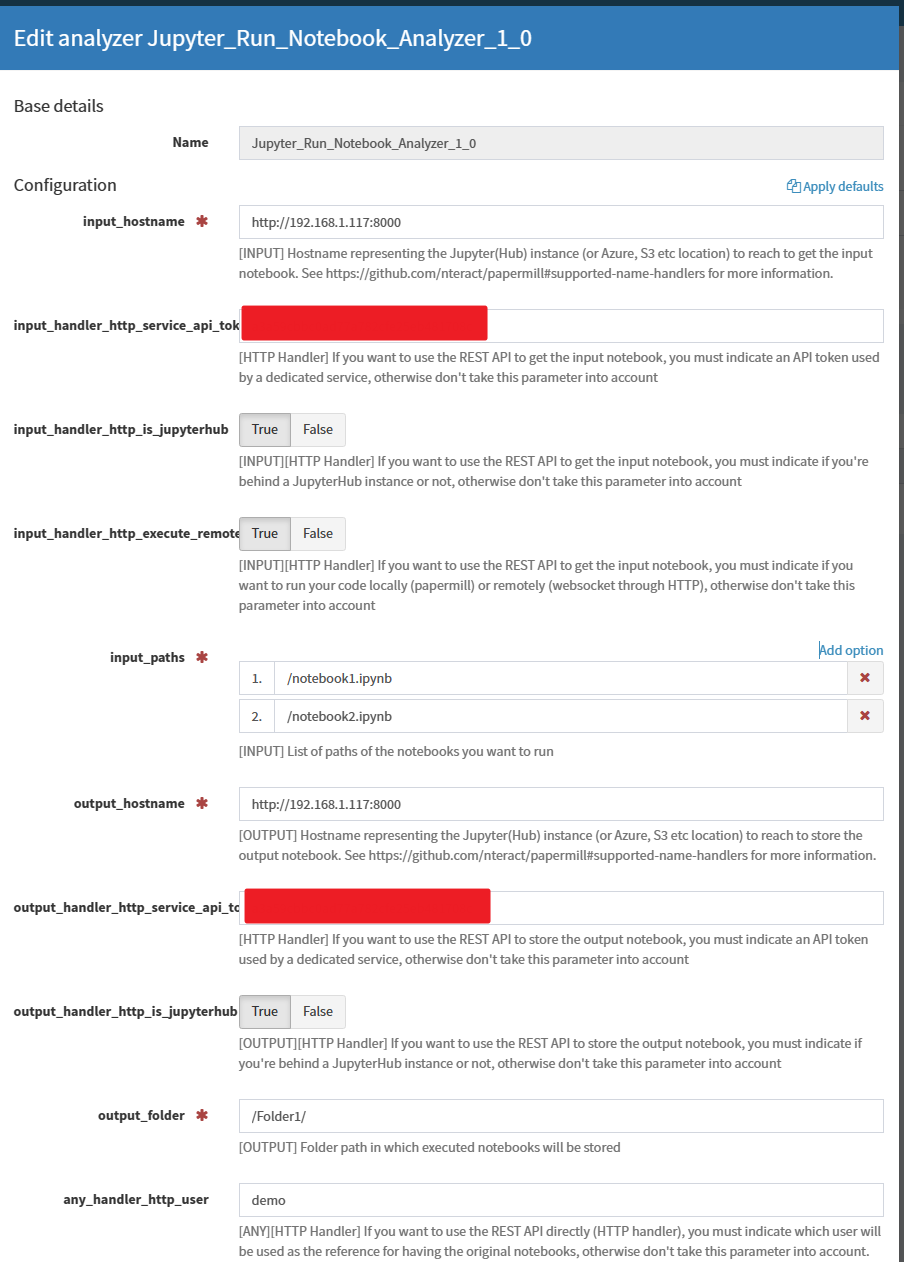
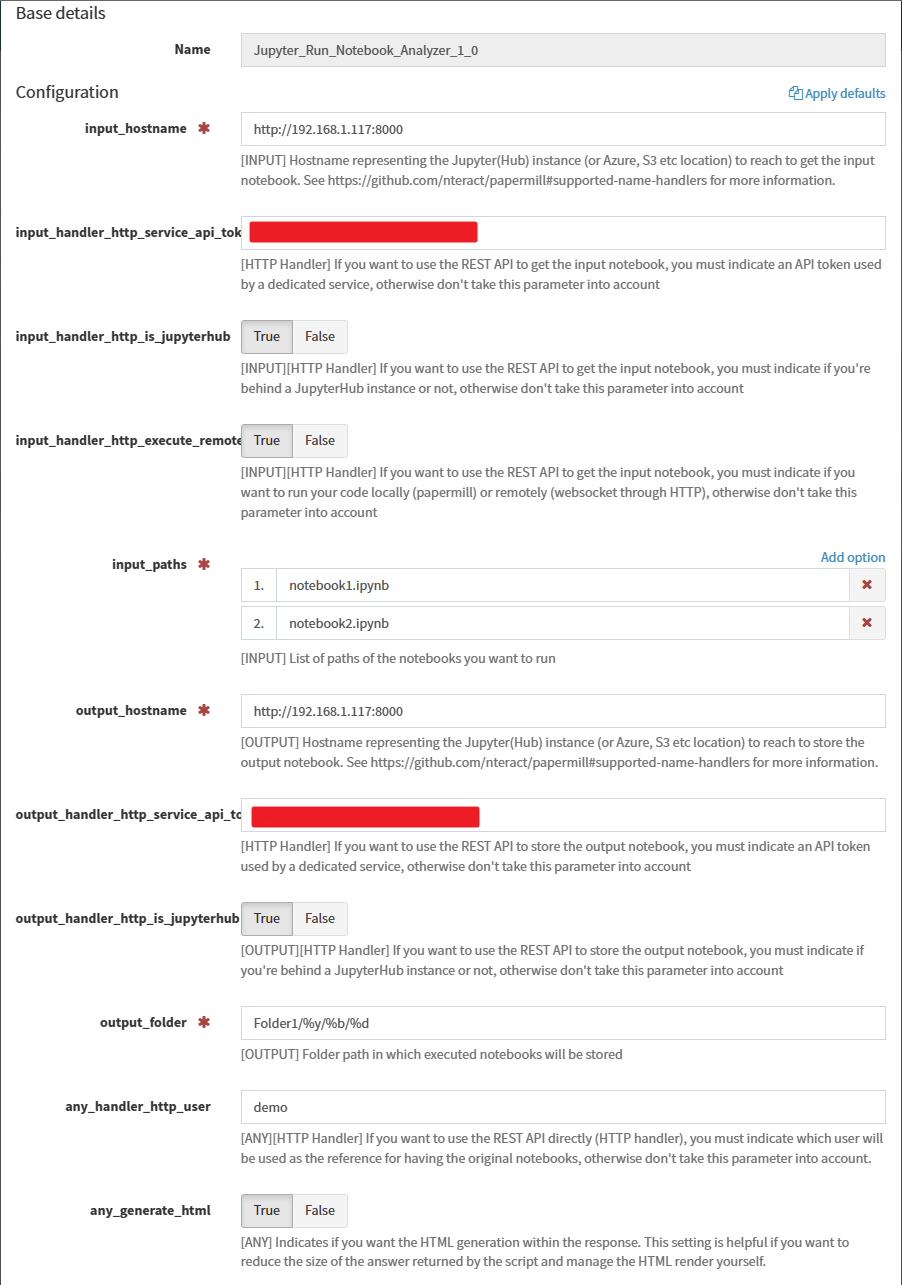
feat: support datetime format in output folder + review way to build output URLs

diff --git a/responders/Jupyter_Responder/jupyter.py b/responders/Jupyter_Responder/jupyter.py
@@ -23,6 +23,16 @@ class Jupyter(Responder):
         """Initialize the Jupyter analyzer"""
         Responder.__init__(self)
 
+        # Initialize the ouput folder
+        self.output_folder = self.get_param(
+            "config.output_folder",
+            None,
+            "You must provide an output folder path in which executed notebooks will be stored",
+        )
+        today = datetime.date.today()
+        # Parse the output folder to catch datetime masks
+        self.output_folder = datetime.datetime.strftime(today,self.output_folder)
+
         # Initialize configuration objects for notebooks
         self.input_configuration = self.initialize_path(
             hostname=self.get_param(
@@ -64,11 +74,6 @@ class Jupyter(Responder):
                 None,
                 "[HTTP Handler only] JupyterHub for output notebook boolean parameter is missing.",
             ),
-        )
-        self.output_folder = self.get_param(
-            "config.output_folder",
-            None,
-            "You must provide an output folder path in which executed notebooks will be stored",
         )
 
         # Use input data as ID depending on the type
@@ -169,6 +174,9 @@ class Jupyter(Responder):
                 result["server_uri_ws_api_kernels"] = result[
                     "server_uri_http_api_kernels"
                 ].replace("http://", "ws://")
+
+            # Initialize the ouput path
+            self.create_output_path(hostname=result["server_uri_http_api_contents"],headers=result["handler_http_headers"])
 
         return result
 
@@ -317,6 +325,30 @@ class Jupyter(Responder):
             # wait to poll again
             time.sleep(1)
 
+    def create_output_path(self, hostname, headers=None):
+        """This function is used to create the output path subfolders if they aren't existing yet
+
+        Args:
+            hostname (str): URL of the hostname
+            headers (dict, optional): Headers for the request. Defaults to None.
+        """
+        subpaths = self.output_folder.split("/")
+        new_path = ""
+        for sp in subpaths:
+            new_path += "/{0}".format(sp)
+            # Build the path
+            final_path = "{0}{1}".format(
+                hostname,
+                new_path
+            )
+
+            # Check if folder is existing
+            status_code = requests.get(final_path, headers=headers).status_code
+            # If the folder exists, it will return a status code 200. Otherwise, we will need to create
+            if status_code != 200:
+                # Create the folder
+                requests.put(final_path, json={"name": sp, "type": "directory"}, headers=headers)
+
     @gen.coroutine
     def execute_notebook_remotely(self):
         """This function is used to execute a notebook thanks to a remote Jupyter instance using the REST API and a dedicated websocket
@@ -450,29 +482,26 @@ class Jupyter(Responder):
             # Write the notebook after execution
             # Build output path notebook
             if self.get_conf("output", "handler_type") is HttpHandler:
-                output_path = "{0}{1}{2}-{3}-{4}?token={5}".format(
+                output_path = "{0}/{1}/{2}-{3}?token={4}".format(
                     self.get_conf("output", "server_uri_http_api_contents"),
                     self.output_folder,
-                    str(datetime.date.today()),
                     self.id,
-                    path[1:],
+                    path,
                     self.get_conf("output", "handler_http_service_api_token"),
                 )
-                output_path_direct = "{0}/user/{1}/tree{2}{3}-{4}-{5}".format(
+                output_path_direct = "{0}/user/{1}/tree/{2}/{3}-{4}".format(
                     self.get_conf("output", "hostname"),
                     self.get_conf("output", "handler_http_user"),
                     self.output_folder,
-                    str(datetime.date.today()),
                     self.id,
-                    path[1:],
+                    path,
                 )
             else:
-                output_path = "{0}{1}{2}-{3}-".format(
+                output_path = "{0}/{1}/{2}".format(
                     self.get_conf("output", "hostname"),
                     self.output_folder,
-                    str(datetime.date.today()),
                     self.id,
-                    path[1:],
+                    path,
                 )
                 output_path_direct = output_path
             pm.iorw.write_ipynb(nb_output, output_path)
@@ -527,29 +556,26 @@ class Jupyter(Responder):
 
                 # Build output path notebook
                 if self.get_conf("output", "handler_type") is HttpHandler:
-                    output_notebook = "{0}{1}{2}-{3}-{4}?token={5}".format(
+                    output_notebook = "{0}/{1}/{2}-{3}?token={4}".format(
                         self.get_conf("output", "server_uri_http_api_contents"),
                         self.output_folder,
-                        str(datetime.date.today()),
                         self.id,
-                        path[1:],
+                        path,
                         self.get_conf("output", "handler_http_service_api_token"),
                     )
-                    output_notebook_direct = "{0}/user/{1}/tree{2}{3}-{4}-{5}".format(
+                    output_notebook_direct = "{0}/user/{1}/tree/{2}/{3}-{4}".format(
                         self.get_conf("output", "hostname"),
                         self.get_conf("output", "handler_http_user"),
                         self.output_folder,
-                        str(datetime.date.today()),
                         self.id,
-                        path[1:],
+                        path,
                     )
                 else:
-                    output_notebook = "{0}{1}{2}-{3}-".format(
+                    output_notebook = "{0}/{1}/{2}-".format(
                         self.get_conf("output", "hostname"),
                         self.output_folder,
-                        str(datetime.date.today()),
                         self.id,
-                        path[1:],
+                        path,
                     )
                     output_notebook_direct = output_notebook
 

diff --git a/analyzers/Jupyter_Analyzer/jupyter.py b/analyzers/Jupyter_Analyzer/jupyter.py
@@ -23,6 +23,16 @@ class Jupyter(Analyzer):
         """Initialize the Jupyter analyzer"""
         Analyzer.__init__(self)
 
+        # Initialize the ouput folder
+        self.output_folder = self.get_param(
+            "config.output_folder",
+            None,
+            "You must provide an output folder path in which executed notebooks will be stored",
+        )
+        today = datetime.date.today()
+        # Parse the output folder to catch datetime masks
+        self.output_folder = datetime.datetime.strftime(today,self.output_folder)
+
         # Initialize configuration objects for notebooks
         self.input_configuration = self.initialize_path(
             hostname=self.get_param(
@@ -64,11 +74,6 @@ class Jupyter(Analyzer):
                 None,
                 "[HTTP Handler only] JupyterHub for output notebook boolean parameter is missing.",
             ),
-        )
-        self.output_folder = self.get_param(
-            "config.output_folder",
-            None,
-            "You must provide an output folder path in which executed notebooks will be stored",
         )
 
         # Additional parameters
@@ -165,6 +170,9 @@ class Jupyter(Analyzer):
                 result["server_uri_ws_api_kernels"] = result[
                     "server_uri_http_api_kernels"
                 ].replace("http://", "ws://")
+
+            # Initialize the ouput path
+            self.create_output_path(hostname=result["server_uri_http_api_contents"],headers=result["handler_http_headers"])
 
         return result
 
@@ -313,6 +321,31 @@ class Jupyter(Analyzer):
             # wait to poll again
             time.sleep(1)
 
+    def create_output_path(self, hostname, headers=None):
+        """This function is used to create the output path subfolders if they aren't existing yet
+
+        Args:
+            hostname (str): URL of the hostname
+            headers (dict, optional): Headers for the request. Defaults to None.
+        """
+        subpaths = self.output_folder.split("/")
+        new_path = ""
+        for sp in subpaths:
+            new_path += "/{0}".format(sp)
+            # Build the path
+            final_path = "{0}{1}".format(
+                hostname,
+                new_path
+            )
+
+            # Check if folder is existing
+            status_code = requests.get(final_path, headers=headers).status_code
+            # If the folder exists, it will return a status code 200. Otherwise, we will need to create
+            if status_code != 200:
+                # Create the folder
+                requests.put(final_path, json={"name": sp, "type": "directory"}, headers=headers)
+
+
     @gen.coroutine
     def execute_notebook_remotely(self):
         """This function is used to execute a notebook thanks to a remote Jupyter instance using the REST API and a dedicated websocket
@@ -446,29 +479,26 @@ class Jupyter(Analyzer):
             # Write the notebook after execution
             # Build output path notebook
             if self.get_conf("output", "handler_type") is HttpHandler:
-                output_path = "{0}{1}{2}-{3}-{4}?token={5}".format(
+                output_path = "{0}/{1}/{2}-{3}?token={4}".format(
                     self.get_conf("output", "server_uri_http_api_contents"),
                     self.output_folder,
-                    str(datetime.date.today()),
                     self.id,
-                    path[1:],
+                    path,
                     self.get_conf("output", "handler_http_service_api_token"),
                 )
-                output_path_direct = "{0}/user/{1}/tree{2}{3}-{4}-{5}".format(
+                output_path_direct = "{0}/user/{1}/tree/{2}/{3}-{4}".format(
                     self.get_conf("output", "hostname"),
                     self.get_conf("output", "handler_http_user"),
                     self.output_folder,
-                    str(datetime.date.today()),
                     self.id,
-                    path[1:],
+                    path,
                 )
             else:
-                output_path = "{0}{1}{2}-{3}-".format(
+                output_path = "{0}/{1}/{2}".format(
                     self.get_conf("output", "hostname"),
                     self.output_folder,
-                    str(datetime.date.today()),
                     self.id,
-                    path[1:],
+                    path,
                 )
                 output_path_direct = output_path
             pm.iorw.write_ipynb(nb_output, output_path)
@@ -523,29 +553,26 @@ class Jupyter(Analyzer):
 
                 # Build output path notebook
                 if self.get_conf("output", "handler_type") is HttpHandler:
-                    output_notebook = "{0}{1}{2}-{3}-{4}?token={5}".format(
+                    output_notebook = "{0}/{1}/{2}-{3}?token={4}".format(
                         self.get_conf("output", "server_uri_http_api_contents"),
                         self.output_folder,
-                        str(datetime.date.today()),
                         self.id,
-                        path[1:],
+                        path,
                         self.get_conf("output", "handler_http_service_api_token"),
                     )
-                    output_notebook_direct = "{0}/user/{1}/tree{2}{3}-{4}-{5}".format(
+                    output_notebook_direct = "{0}/user/{1}/tree/{2}/{3}-{4}".format(
                         self.get_conf("output", "hostname"),
                         self.get_conf("output", "handler_http_user"),
                         self.output_folder,
-                        str(datetime.date.today()),
                         self.id,
-                        path[1:],
+                        path,
                     )
                 else:
-                    output_notebook = "{0}{1}{2}-{3}-".format(
+                    output_notebook = "{0}/{1}/{2}-".format(
                         self.get_conf("output", "hostname"),
                         self.output_folder,
-                        str(datetime.date.today()),
                         self.id,
-                        path[1:],
+                        path,
                     )
                     output_notebook_direct = output_notebook
 

diff --git a/analyzers/Jupyter_Analyzer/README.md b/analyzers/Jupyter_Analyzer/README.md
@@ -129,10 +129,10 @@ Here is the description for each parameter:
  - `input_handler_http_is_jupyterhub`: [INPUT][HTTP Handler] If you want to use the REST API to get the input notebook, you must indicate if you're behind a JupyterHub instance or not, otherwise don't take this parameter into account (Default: true)
  - `input_handler_http_execute_remotely`: [INPUT][HTTP Handler] If you want to use the REST API to get the input notebook, you must indicate if you want to run your code locally (papermill) or remotely (websocket through HTTP), otherwise don't take this parameter into account
  - `input_paths`: [INPUT] List of paths of the notebooks you want to run
- output_hostname: [OUTPUT] Hostname representing the Jupyter(Hub) instance (or Azure, S3 etc location) to reach to store the output notebook. See https://github.com/nteract/papermill#supported-name-handlers for more information. **Input paths must start with a "/"**.
+ output_hostname: [OUTPUT] Hostname representing the Jupyter(Hub) instance (or Azure, S3 etc location) to reach to store the output notebook. See https://github.com/nteract/papermill#supported-name-handlers for more information.
  - `output_handler_http_service_api_token`: [HTTP Handler] If you want to use the REST API to store the output notebook, you must indicate an API token used by a dedicated service, otherwise don't take this parameter into account
  - `output_handler_http_is_jupyterhub`: [OUTPUT][HTTP Handler] If you want to use the REST API to store the output notebook, you must indicate if you're behind a JupyterHub instance or not, otherwise don't take this parameter into account (Default: true)
- - `output_folder`: [OUTPUT] Folder path in which executed notebooks will be stored. **Output folder must start and end with a "/"**. (Default: /)
+ - `output_folder`: [OUTPUT] Folder path in which executed notebooks will be stored. This field is supporting format code for datetime such as the one used by the `strftime()` function.
  - `any_handler_http_user`: [ANY][HTTP Handler] If you want to use the REST API directly (HTTP handler), you must indicate which user will be used as the reference for having the original notebooks, otherwise don't take this parameter into account.
  - `any_generate_html`: [ANY] Indicates if you want only the HTML conversion as a response (not the full detailed payload) (Default: true)
 

diff --git a/responders/Jupyter_Responder/README.md b/responders/Jupyter_Responder/README.md
@@ -131,10 +131,10 @@ Here is the description for each parameter:
  - `input_handler_http_is_jupyterhub`: [INPUT][HTTP Handler] If you want to use the REST API to get the input notebook, you must indicate if you're behind a JupyterHub instance or not, otherwise don't take this parameter into account (Default: true)
  - `input_handler_http_execute_remotely`: [INPUT][HTTP Handler] If you want to use the REST API to get the input notebook, you must indicate if you want to run your code locally (papermill) or remotely (websocket through HTTP), otherwise don't take this parameter into account
  - `input_paths`: [INPUT] List of paths of the notebooks you want to run
- output_hostname: [OUTPUT] Hostname representing the Jupyter(Hub) instance (or Azure, S3 etc location) to reach to store the output notebook. See https://github.com/nteract/papermill#supported-name-handlers for more information. **Input paths must start with a "/"**.
+ output_hostname: [OUTPUT] Hostname representing the Jupyter(Hub) instance (or Azure, S3 etc location) to reach to store the output notebook. See https://github.com/nteract/papermill#supported-name-handlers for more information.
  - `output_handler_http_service_api_token`: [HTTP Handler] If you want to use the REST API to store the output notebook, you must indicate an API token used by a dedicated service, otherwise don't take this parameter into account
  - `output_handler_http_is_jupyterhub`: [OUTPUT][HTTP Handler] If you want to use the REST API to store the output notebook, you must indicate if you're behind a JupyterHub instance or not, otherwise don't take this parameter into account (Default: true)
- - `output_folder`: [OUTPUT] Folder path in which executed notebooks will be stored. **Output folder must start and end with a "/"**. (Default: /)
+ - `output_folder`: [OUTPUT] Folder path in which executed notebooks will be stored. This field is supporting format code for datetime such as the one used by the `strftime()` function.
  - `any_handler_http_user`: [ANY][HTTP Handler] If you want to use the REST API directly (HTTP handler), you must indicate which user will be used as the reference for having the original notebooks, otherwise don't take this parameter into account.
 
 Here is an example of what it could looks like:
